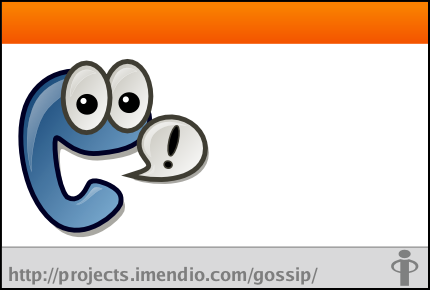
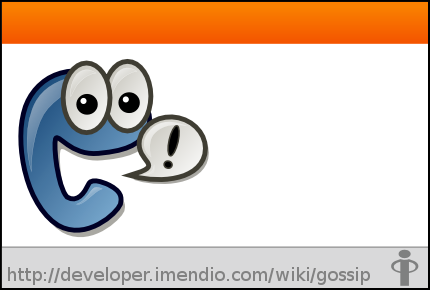
- Bumped Loudmouth requirement to 1.0 - Bumped version to 0.9
2005-08-14  Mikael Hallendal  <micke@imendio.com>

	* configure.ac:
	- Bumped Loudmouth requirement to 1.0
	- Bumped version to 0.9
	* src/gossip-about.c: (button_press_event_cb):
	* ui/pixmaps/gossip-about.png:
	- Updated project URL.

Changed region(s): [[0.0, 0.9, 0.8767, 0.9931]]

diff --git a/src/gossip-about.c b/src/gossip-about.c
@@ -96,7 +96,7 @@ button_press_event_cb (GtkWidget      *widget,
 	if (event->x > LINK_LEFT && event->x < LINK_RIGHT &&
 	    event->y > LINK_TOP && event->y < LINK_BOTTOM) {
 
-		gnome_url_show ("http://projects.imendio.com/gossip/", NULL);
+		gnome_url_show ("http://developer.imendio.com/wiki/gossip", NULL);
 		return FALSE;
 	}
 	
